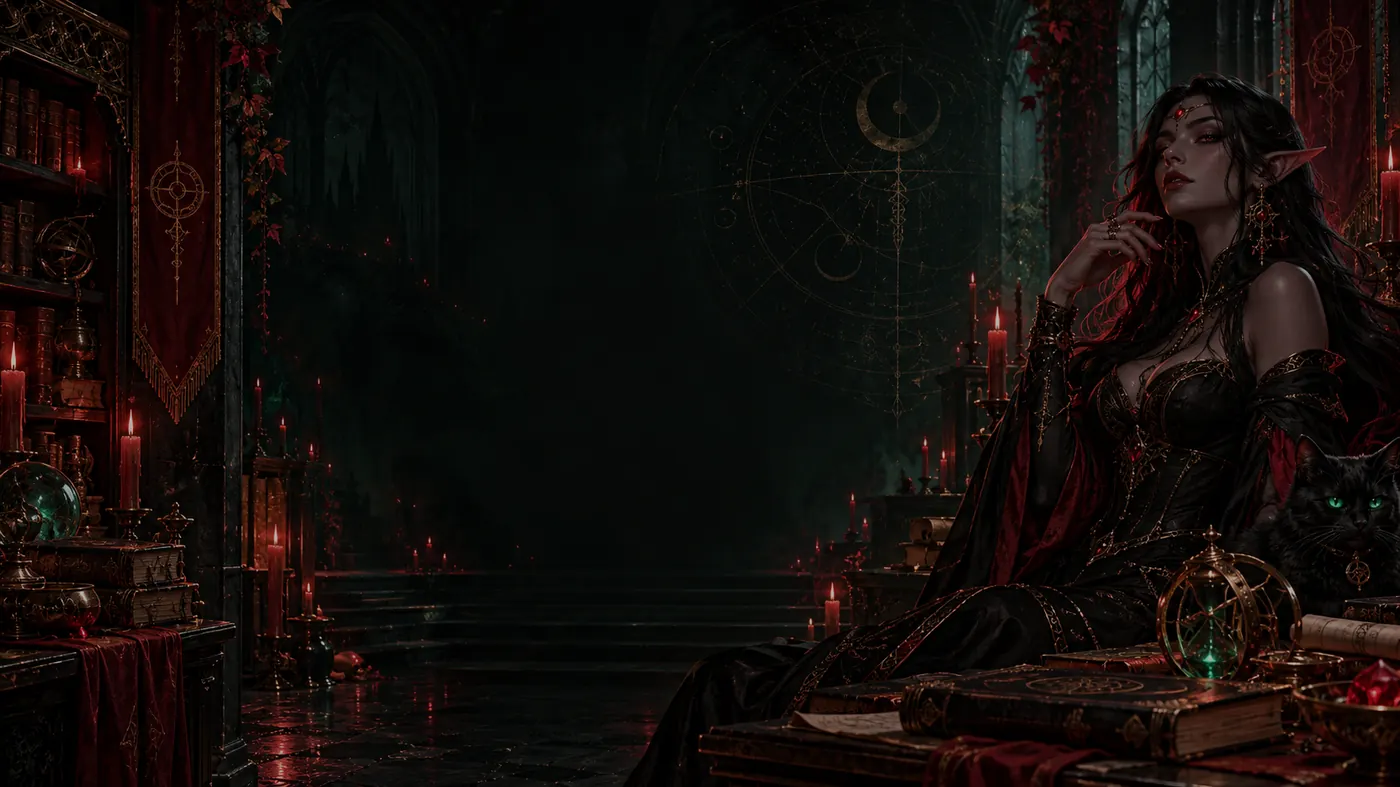
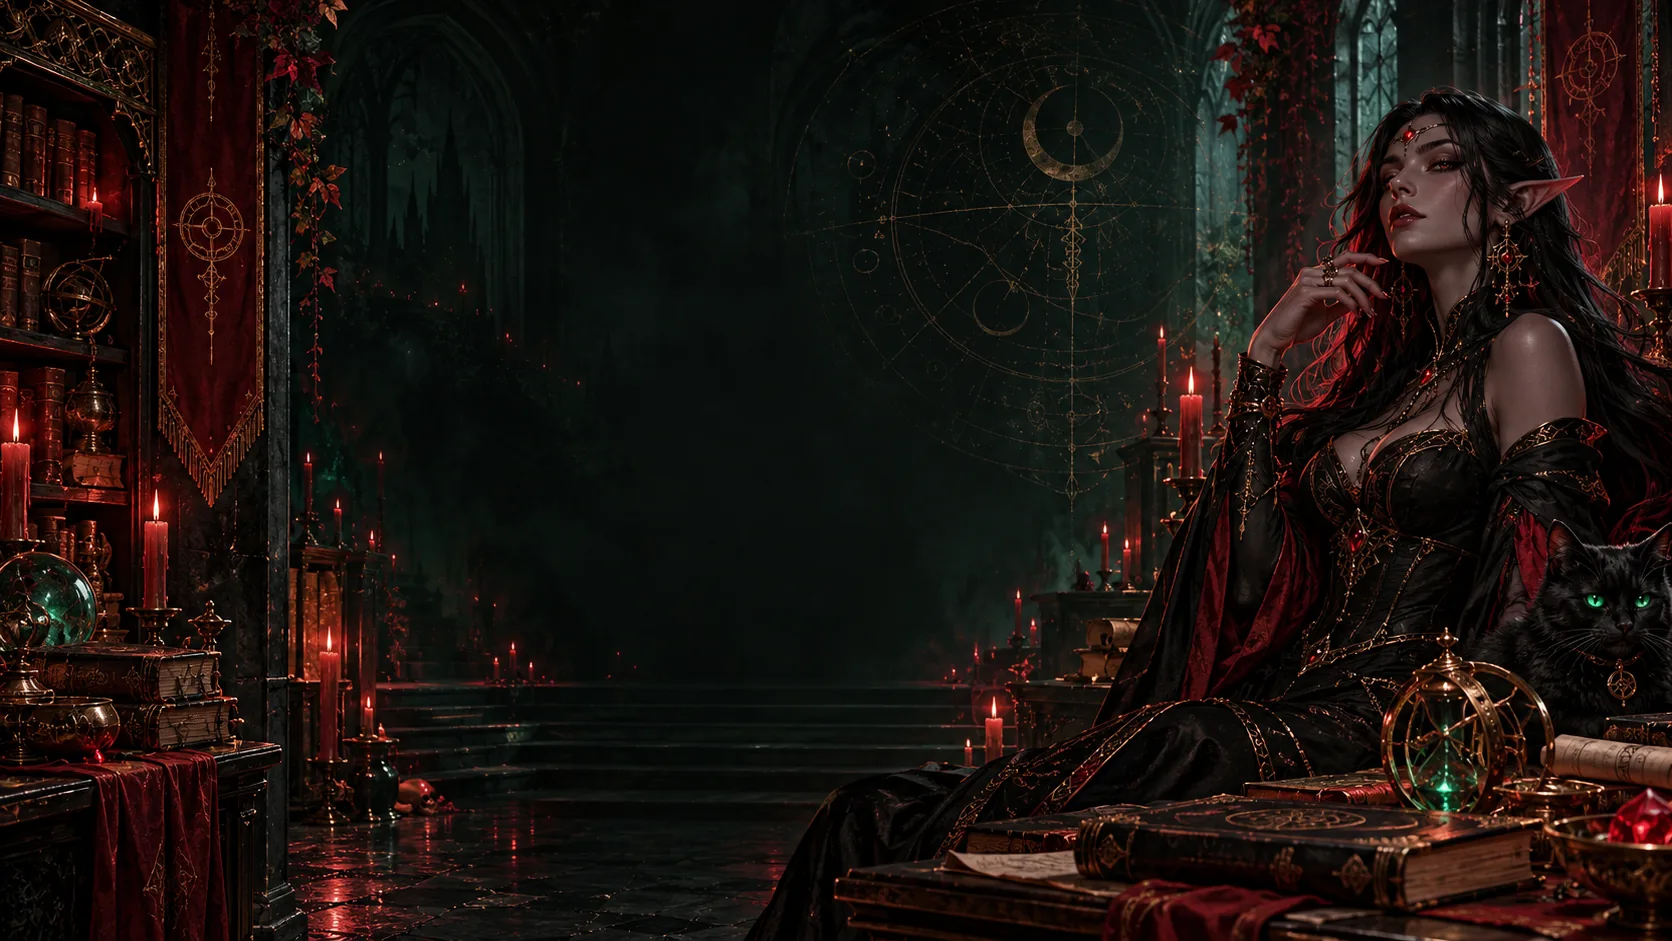
feat(web): backdrop art at native resolution, glass opened further
The shipped arts were 900x506 while the masters are 1672x941, so five of the six
screens rendered a 1.6x upscale and read as 'too close' — the blur token was
already innocent. gen-backgrounds.py re-derives all six at master size; the
master-to-art mapping comes from pixel distance, because the drop filenames are
ChatGPT timestamps and say nothing.

Glass tiers opened ~8pt and the scrim let go ~7pt so the picture carries more of
the screen. --glass-raised removed: no component ever read it.

diff --git a/web/src/app/globals.css b/web/src/app/globals.css
@@ -20,14 +20,14 @@
   --veil: rgba(34, 28, 23, 0.55);
   /* Backdrop art: a full-bleed picture that must stay recognizable. The blur is a
      hairline seam softener, not a bokeh wash — dimming is the scrim's job, not this one's. */
-  --art-opacity: 0.34;
+  --art-opacity: 0.42;
   --art-blur: 2px;
-  --art-scrim: rgba(241, 236, 225, 0.62);
+  --art-scrim: rgba(241, 236, 225, 0.55);
   /* One glass tier per surface role: the further an element is from plain text,
      the more art is allowed through it. */
-  --glass-panel: 72%;
-  --glass-field: 58%;
-  --glass-shell: 66%;
+  --glass-panel: 64%;
+  --glass-field: 50%;
+  --glass-shell: 58%;
   --glass-blur: 12px;
 }
 
@@ -47,13 +47,12 @@
   --jade: #2f9e6b;
   --ember: #d98032;
   --veil: rgba(6, 5, 4, 0.72);
-  --art-opacity: 0.42;
+  --art-opacity: 0.5;
   --art-blur: 2px;
-  --art-scrim: rgba(10, 9, 8, 0.5);
-  --glass-panel: 62%;
-  --glass-raised: 80%;
-  --glass-field: 48%;
-  --glass-shell: 56%;
+  --art-scrim: rgba(10, 9, 8, 0.42);
+  --glass-panel: 54%;
+  --glass-field: 40%;
+  --glass-shell: 48%;
   --glass-blur: 14px;
 }
 

diff --git a/web/scripts/gen-backgrounds.py b/web/scripts/gen-backgrounds.py
@@ -1,0 +1,41 @@
+"""Derive the six full-bleed backdrop arts from the owner's masters.
+
+The first pass shipped the arts at 900x506 while the masters are 1672x941, so a
+1440-wide viewport upscaled them ~1.6x and every screen except the console read as
+zoomed-in mush. Emitting at native master size removes the upscale on typical
+viewports; the masters themselves are untracked owner drops, this output is tracked.
+
+Mapping was established by mean-abs-difference against the shipped arts, not by name.
+Re-run after replacing a master:
+    python3 web/scripts/gen-backgrounds.py
+"""
+from pathlib import Path
+from PIL import Image
+
+MASTERS = Path("design/assets/backgrounds")
+OUT = Path("web/public/design")
+QUALITY = 82
+
+# The app asks for these paths; the master files are named by ChatGPT export timestamp.
+PAIRS = {
+    "hero-console.webp": "Изображение ChatGPT 19 окт. 2026 г., 00_49_15-1.png",
+    "art-stats.webp": "Изображение ChatGPT 19 окт. 2026 г., 00_49_16-2.png",
+    "art-persona.webp": "Изображение ChatGPT 19 окт. 2026 г., 00_49_17-3.png",
+    "art-memories.webp": "Изображение ChatGPT 19 окт. 2026 г., 00_49_18-4.png",
+    "art-settings.webp": "Изображение ChatGPT 19 окт. 2026 г., 00_49_19-5.png",
+    "art-scry.webp": "Изображение ChatGPT 19 окт. 2026 г., 00_49_20-6.png",
+}
+
+
+def main() -> None:
+    OUT.mkdir(parents=True, exist_ok=True)
+    for target, source in PAIRS.items():
+        src = MASTERS / source
+        art = Image.open(src).convert("RGB")
+        dest = OUT / target
+        art.save(dest, format="WEBP", quality=QUALITY, method=6)
+        print(f"{target}: {art.size[0]}x{art.size[1]} {dest.stat().st_size // 1024} KB")
+
+
+if __name__ == "__main__":
+    main()
